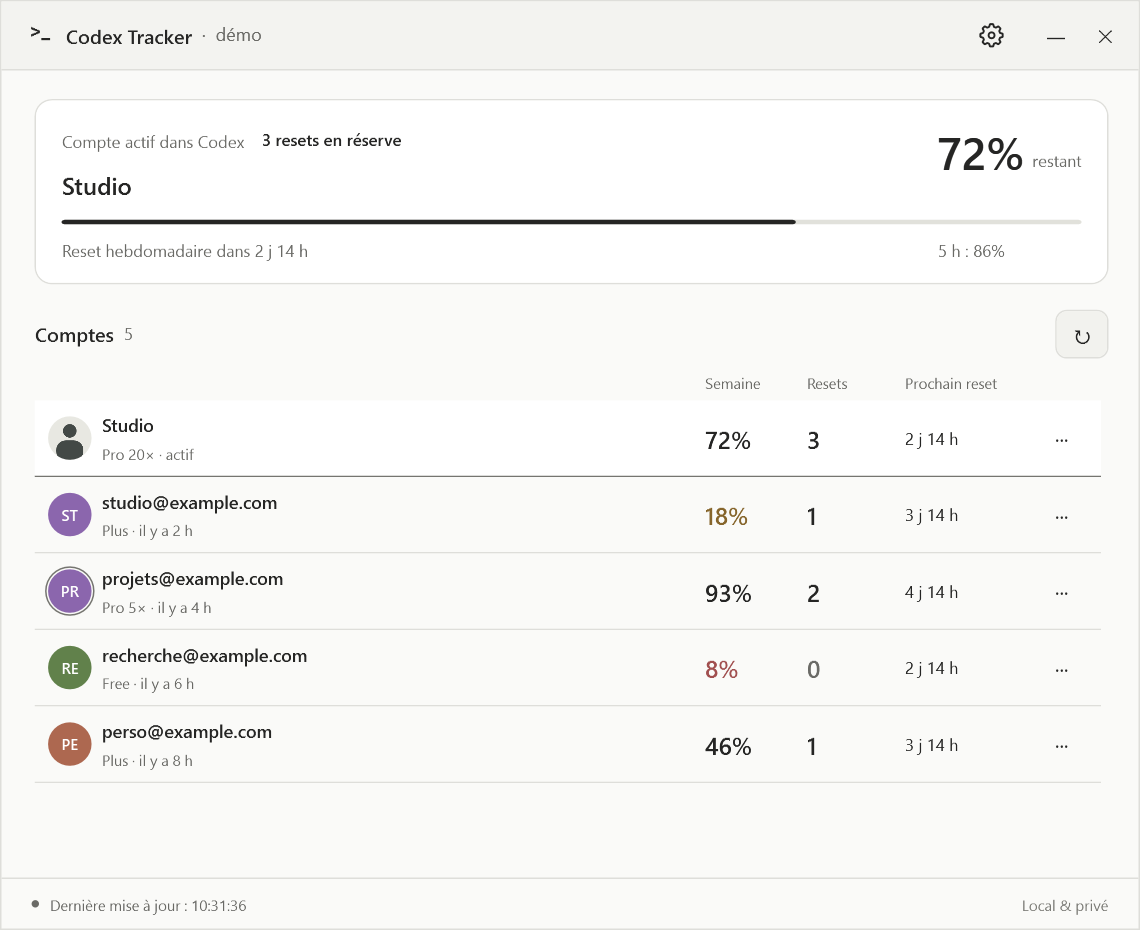
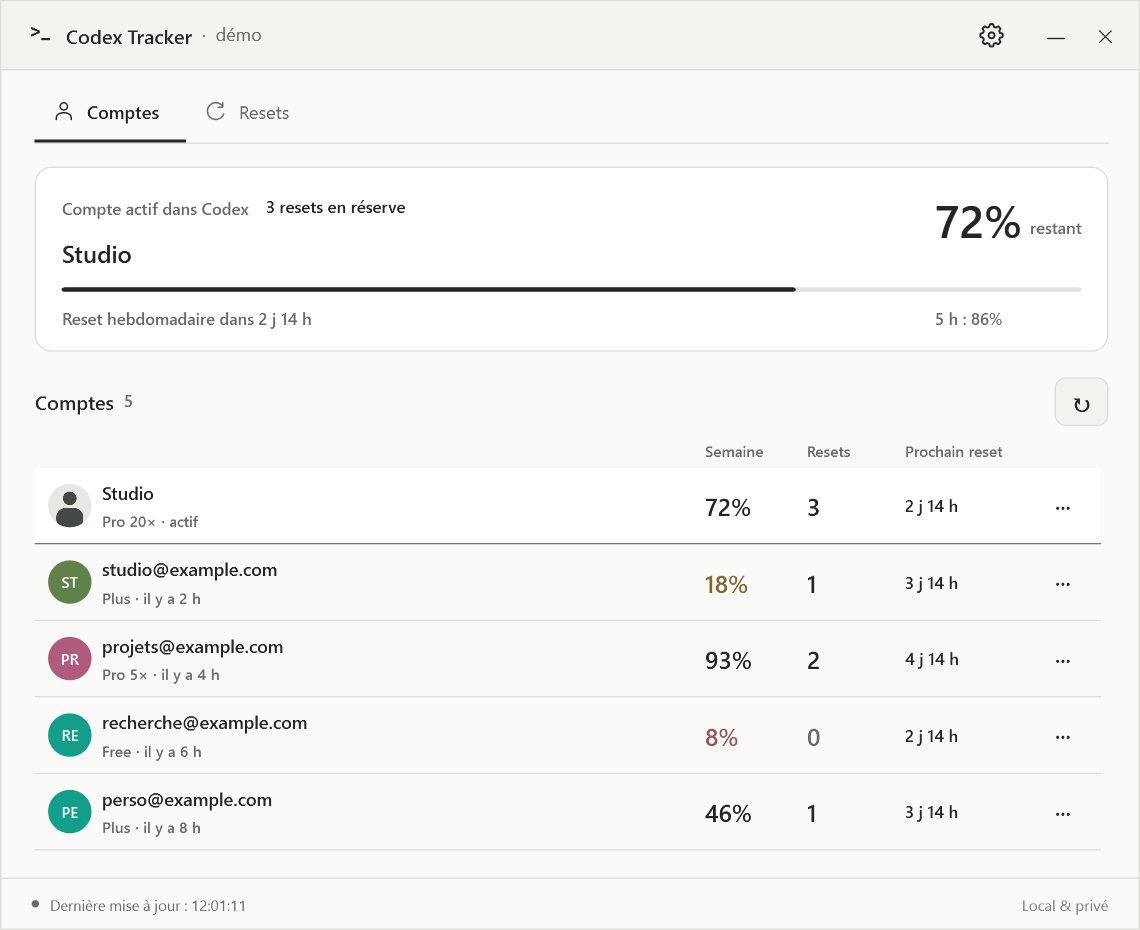
Add a dedicated reset schedule tab with account filtering

diff --git a/src/CodexTracker.App/App.xaml b/src/CodexTracker.App/App.xaml
@@ -15,9 +15,12 @@
   <Style TargetType="TextBox"><Setter Property="Foreground" Value="{DynamicResource TextBrush}"/><Setter Property="Background" Value="{DynamicResource BackgroundBrush}"/><Setter Property="BorderBrush" Value="{DynamicResource LineBrush}"/><Setter Property="CaretBrush" Value="{DynamicResource TextBrush}"/><Setter Property="Padding" Value="10"/><Setter Property="FontSize" Value="13"/><Setter Property="SelectionBrush" Value="{DynamicResource SelectedBrush}"/></Style>
   <Style TargetType="ProgressBar"><Setter Property="Height" Value="3"/><Setter Property="Background" Value="{DynamicResource TrackBrush}"/><Setter Property="BorderThickness" Value="0"/><Setter Property="Foreground" Value="{DynamicResource AccentBrush}"/><Setter Property="Template"><Setter.Value><ControlTemplate TargetType="ProgressBar"><Grid><Border Background="{TemplateBinding Background}" CornerRadius="2"/><Border x:Name="PART_Track"/><Border x:Name="PART_Indicator" Background="{TemplateBinding Foreground}" HorizontalAlignment="Left" CornerRadius="2"/></Grid></ControlTemplate></Setter.Value></Setter></Style>
   <Style TargetType="CheckBox"><Setter Property="Foreground" Value="{DynamicResource TextBrush}"/><Setter Property="FontSize" Value="12"/><Setter Property="Cursor" Value="Hand"/><Setter Property="Template"><Setter.Value><ControlTemplate TargetType="CheckBox"><Grid><Grid.ColumnDefinitions><ColumnDefinition Width="20"/><ColumnDefinition Width="*"/></Grid.ColumnDefinitions><Border x:Name="Box" Width="17" Height="17" BorderBrush="{DynamicResource LineBrush}" BorderThickness="1" Background="{DynamicResource ButtonBrush}" CornerRadius="4"><TextBlock x:Name="Mark" Text="✓" Visibility="Collapsed" FontSize="12" FontWeight="SemiBold" HorizontalAlignment="Center" VerticalAlignment="Center"/></Border><ContentPresenter Grid.Column="1" Margin="8,0,0,0" VerticalAlignment="Center"/></Grid><ControlTemplate.Triggers><Trigger Property="IsChecked" Value="True"><Setter TargetName="Mark" Property="Visibility" Value="Visible"/><Setter TargetName="Box" Property="BorderBrush" Value="{DynamicResource FocusBrush}"/></Trigger><Trigger Property="IsKeyboardFocused" Value="True"><Setter TargetName="Box" Property="BorderBrush" Value="{DynamicResource TextBrush}"/></Trigger><Trigger Property="IsEnabled" Value="False"><Setter Property="Opacity" Value="0.4"/></Trigger></ControlTemplate.Triggers></ControlTemplate></Setter.Value></Setter></Style>
+  <Geometry x:Key="AccountsIcon">M16,7 A4,4 0 1 1 8,7 A4,4 0 1 1 16,7 M4,21 L4,19 C4,12 20,12 20,19 L20,21</Geometry>
   <Geometry x:Key="SettingsGeneralIcon">M4,7 L20,7 M4,17 L20,17 M8,4 L8,10 M16,14 L16,20</Geometry>
   <Geometry x:Key="SettingsNotificationsIcon">M6,10 C6,2 18,2 18,10 L18,15 21,18 3,18 6,15 Z M9,21 L15,21</Geometry>
   <Geometry x:Key="SettingsApplicationIcon">M3,4 L21,4 21,20 3,20 Z M3,9 L21,9 M7,6.5 L7.1,6.5 M10,6.5 L10.1,6.5</Geometry>
+  <Style x:Key="MainTabsStyle" TargetType="TabControl"><Setter Property="Template"><Setter.Value><ControlTemplate TargetType="TabControl"><Grid><Grid.RowDefinitions><RowDefinition Height="Auto"/><RowDefinition Height="*"/></Grid.RowDefinitions><Border BorderBrush="{DynamicResource LineBrush}" BorderThickness="0,0,0,1"><TabPanel IsItemsHost="True" KeyboardNavigation.TabIndex="1"/></Border><ContentPresenter Grid.Row="1" x:Name="PART_SelectedContentHost" ContentSource="SelectedContent"/></Grid></ControlTemplate></Setter.Value></Setter></Style>
+  <Style x:Key="MainTabStyle" TargetType="TabItem"><Setter Property="Foreground" Value="{DynamicResource MutedBrush}"/><Setter Property="FontSize" Value="12"/><Setter Property="Template"><Setter.Value><ControlTemplate TargetType="TabItem"><Border x:Name="Tab" Background="Transparent" BorderThickness="0,0,0,2" BorderBrush="Transparent" Padding="12,10,18,11"><StackPanel Orientation="Horizontal"><Viewbox Width="15" Height="15" Margin="0,0,8,0"><Canvas Width="24" Height="24"><Path Data="{Binding Tag, RelativeSource={RelativeSource TemplatedParent}}" Stroke="{TemplateBinding Foreground}" StrokeThickness="1.6" StrokeStartLineCap="Round" StrokeEndLineCap="Round" StrokeLineJoin="Round"/></Canvas></Viewbox><ContentPresenter ContentSource="Header" VerticalAlignment="Center"/></StackPanel></Border><ControlTemplate.Triggers><Trigger Property="IsSelected" Value="True"><Setter Property="Foreground" Value="{DynamicResource TextBrush}"/><Setter Property="FontWeight" Value="SemiBold"/><Setter TargetName="Tab" Property="BorderBrush" Value="{DynamicResource TextBrush}"/></Trigger><Trigger Property="IsMouseOver" Value="True"><Setter Property="Foreground" Value="{DynamicResource TextBrush}"/></Trigger><Trigger Property="IsKeyboardFocused" Value="True"><Setter TargetName="Tab" Property="Background" Value="{DynamicResource ButtonHoverBrush}"/></Trigger></ControlTemplate.Triggers></ControlTemplate></Setter.Value></Setter></Style>
   <Style x:Key="SettingsNavigation" TargetType="Button" BasedOn="{StaticResource QuietButton}">
    <Setter Property="HorizontalContentAlignment" Value="Left"/><Setter Property="MinHeight" Value="36"/>
    <Setter Property="Template"><Setter.Value><ControlTemplate TargetType="Button">

diff --git a/src/CodexTracker.App/MainWindow.xaml b/src/CodexTracker.App/MainWindow.xaml
@@ -15,7 +15,9 @@
  </Grid></Viewbox>
 </Button><Button Content="—" ToolTip="Réduire" Click="Minimize_Click" Style="{StaticResource QuietButton}" Padding="10,5"/><Button Content="✕" ToolTip="Masquer dans la zone de notification" Click="Hide_Click" Style="{StaticResource QuietButton}" Padding="10,5"/></StackPanel>
   </Grid></Border>
-  <Grid Grid.Row="1" Margin="22,19,20,12"><Grid.RowDefinitions><RowDefinition Height="Auto"/><RowDefinition Height="Auto"/><RowDefinition Height="Auto"/><RowDefinition Height="Auto"/><RowDefinition Height="*"/></Grid.RowDefinitions>
+  <TabControl x:Name="MainTabs" Grid.Row="1" Margin="22,9,20,12" Style="{StaticResource MainTabsStyle}">
+   <TabItem Header="Comptes" Tag="{StaticResource AccountsIcon}" Style="{StaticResource MainTabStyle}">
+   <Grid Margin="0,15,0,0"><Grid.RowDefinitions><RowDefinition Height="Auto"/><RowDefinition Height="Auto"/><RowDefinition Height="Auto"/><RowDefinition Height="Auto"/><RowDefinition Height="*"/></Grid.RowDefinitions>
    <Border Background="{DynamicResource PanelBrush}" BorderBrush="{DynamicResource LineBrush}" BorderThickness="1" CornerRadius="9" Padding="13,10" Margin="0,0,0,13" Visibility="{Binding ShowOnboarding, Converter={StaticResource BoolVisibility}}"><Grid><Grid.ColumnDefinitions><ColumnDefinition Width="*"/><ColumnDefinition Width="Auto"/></Grid.ColumnDefinitions><TextBlock Text="Changez de compte dans Codex : le tracker suit automatiquement. Glissez son icône près de l’horloge pour la garder visible." TextWrapping="Wrap" Foreground="{DynamicResource MutedBrush}" FontSize="11" Margin="0,0,14,0"/><Button Grid.Column="1" Content="Compris" Click="Onboarding_Click" Padding="9,5" VerticalAlignment="Center"/></Grid></Border>
    <Border Grid.Row="1" Background="{DynamicResource PanelBrush}" BorderBrush="{DynamicResource LineBrush}" BorderThickness="1" CornerRadius="11" Padding="17,14" Visibility="{Binding HasActive, Converter={StaticResource BoolVisibility}}"><Grid><Grid.RowDefinitions><RowDefinition Height="Auto"/><RowDefinition Height="Auto"/><RowDefinition Height="Auto"/></Grid.RowDefinitions><Grid.ColumnDefinitions><ColumnDefinition Width="*"/><ColumnDefinition Width="Auto"/></Grid.ColumnDefinitions>
         <StackPanel><WrapPanel VerticalAlignment="Center"><TextBlock Text="{Binding Active.SummaryLabel}" Foreground="{DynamicResource MutedBrush}" FontSize="11" VerticalAlignment="Center" Margin="0,0,12,0"/><Border Style="{StaticResource ReserveMetric}" Margin="0,0,8,0"><Border.ToolTip><ToolTip Content="{Binding Active.ReserveHint}" ContentTemplate="{StaticResource ReserveTooltip}"/></Border.ToolTip><TextBlock Text="{Binding Active.ReserveSummary}" Foreground="{Binding Active.ReserveBrush}" FontSize="11" FontWeight="SemiBold"/></Border></WrapPanel><TextBlock Text="{Binding Active.Email}" FontSize="16" FontWeight="SemiBold" TextTrimming="CharacterEllipsis" Margin="0,5,15,0" ToolTip="{Binding Active.Email}"/></StackPanel>
@@ -43,6 +45,9 @@
     </DataTemplate></ItemsControl.ItemTemplate></ItemsControl>
    </StackPanel></ScrollViewer>
   </Grid>
+   </TabItem>
+   <TabItem x:Name="ResetsTab" Header="Resets" Tag="{StaticResource DropdownRefreshIcon}" Style="{StaticResource MainTabStyle}"/>
+  </TabControl>
   <Border Grid.Row="2" BorderBrush="{DynamicResource LineBrush}" BorderThickness="0,1,0,0" Padding="20,0"><Grid><Grid.ColumnDefinitions><ColumnDefinition Width="12"/><ColumnDefinition Width="*"/><ColumnDefinition Width="Auto"/></Grid.ColumnDefinitions><Ellipse Width="5" Height="5" Fill="{Binding StatusBrush}" HorizontalAlignment="Left" VerticalAlignment="Center"/><TextBlock Grid.Column="1" Text="{Binding StatusText}" ToolTip="{Binding StatusHint}" Foreground="{DynamicResource MutedBrush}" FontSize="10" VerticalAlignment="Center" TextTrimming="CharacterEllipsis"/><TextBlock Grid.Column="2" Text="Local &amp; privé" Foreground="{DynamicResource SubtleBrush}" FontSize="10" VerticalAlignment="Center" Margin="15,0,0,0"/></Grid></Border>
  </Grid></Border>
 </Window>

diff --git a/src/CodexTracker.App/ResetsView.cs b/src/CodexTracker.App/ResetsView.cs
@@ -1,0 +1,118 @@
+namespace CodexTracker.App;
+
+internal sealed record ResetAccountChoice(Guid? Id, string Label)
+{
+    public override string ToString() => Label;
+}
+
+internal sealed class ResetsView : UserControl
+{
+    private readonly PreferencesStore _preferences;
+    private readonly ComboBox _accounts;
+    private readonly StackPanel _timeline = new();
+    private readonly TextBlock _summary = Ui.Text("", 12, "MutedBrush");
+    private readonly TextBlock _reserves = Ui.Text("", 11, "MutedBrush");
+    private readonly Button _refresh;
+    private readonly List<(ResetScheduleEntry Entry, TextBlock Countdown, TextBlock Freshness)> _rows = [];
+    private TrackerState _state = new([], null);
+    private DateTimeOffset? _nextBoundary;
+    private bool _syncing;
+
+    internal ResetsView(PreferencesStore preferences, Action<Guid?> calendar, Action refresh)
+    {
+        _preferences = preferences;
+        var root = new Grid { Margin = new Thickness(0, 17, 0, 0) };
+        root.RowDefinitions.Add(new RowDefinition { Height = GridLength.Auto });
+        root.RowDefinitions.Add(new RowDefinition { Height = GridLength.Auto });
+        root.RowDefinitions.Add(new RowDefinition());
+        var heading = new Grid(); heading.ColumnDefinitions.Add(new ColumnDefinition()); heading.ColumnDefinitions.Add(new ColumnDefinition { Width = GridLength.Auto });
+        var title = Ui.Text("Les échéances de vos comptes", 20); title.FontWeight = FontWeights.SemiBold; heading.Children.Add(title);
+        var export = new Button { Content = "Google Agenda ↗", Style = (Style)FindResource("QuietButton"), VerticalAlignment = VerticalAlignment.Top, Margin = new Thickness(12, 0, 0, 0), ToolTip = "Ajouter une échéance ou importer les dates dans un agenda" };
+        Grid.SetColumn(export, 1); heading.Children.Add(export);
+        var introduction = new StackPanel(); introduction.Children.Add(heading); _summary.Margin = new Thickness(0, 7, 0, 5); introduction.Children.Add(_summary); introduction.Children.Add(_reserves); root.Children.Add(introduction);
+
+        var filters = new Grid { Margin = new Thickness(0, 18, 0, 12) }; filters.ColumnDefinitions.Add(new ColumnDefinition { Width = new GridLength(230) }); filters.ColumnDefinitions.Add(new ColumnDefinition()); filters.ColumnDefinitions.Add(new ColumnDefinition { Width = GridLength.Auto });
+        _accounts = new ComboBox { DisplayMemberPath = "Label", SelectedValuePath = "Id", Tag = FindResource("AccountsIcon") };
+        export.Click += (_, _) => calendar((_accounts.SelectedItem as ResetAccountChoice)?.Id);
+        System.Windows.Automation.AutomationProperties.SetName(_accounts, "Filtrer les resets par compte");
+        _accounts.SelectionChanged += (_, _) => { if (!_syncing) Render(); }; filters.Children.Add(_accounts);
+        _refresh = new Button { Content = "Actualiser", Style = (Style)FindResource("QuietButton"), ToolTip = "Actualise le compte actif dans Codex ; les autres conservent leur dernier relevé" };
+        _refresh.Click += (_, _) => refresh(); Grid.SetColumn(_refresh, 2); filters.Children.Add(_refresh); Grid.SetRow(filters, 1); root.Children.Add(filters);
+        var scroll = new ScrollViewer { Content = _timeline, VerticalScrollBarVisibility = ScrollBarVisibility.Auto, HorizontalScrollBarVisibility = ScrollBarVisibility.Disabled };
+        Grid.SetRow(scroll, 2); root.Children.Add(scroll); Content = root;
+    }
+    internal void Update(TrackerState state)
+    {
+        _state = state; _refresh.IsEnabled = !state.IsBusy;
+        var selected = (_accounts.SelectedItem as ResetAccountChoice)?.Id;
+        var choices = new[] { new ResetAccountChoice(null, "Tous les comptes") }
+            .Concat(state.Accounts.Select(a => new ResetAccountChoice(a.Profile.Id, AccountName(a)))).ToArray();
+        if (_accounts.ItemsSource is not ResetAccountChoice[] previous || !previous.SequenceEqual(choices))
+        {
+            _syncing = true; _accounts.ItemsSource = choices;
+            _accounts.SelectedItem = choices.FirstOrDefault(c => c.Id == selected) ?? choices[0]; _syncing = false;
+        }
+        Render();
+    }
+    private string AccountName(AccountState account) => PrivacyText.Account(account.Profile, _state, _preferences.Current);
+    private void Render()
+    {
+        var accountId = (_accounts.SelectedItem as ResetAccountChoice)?.Id;
+        var accounts = _state.Accounts.Where(a => accountId is null || a.Profile.Id == accountId).ToArray();
+        var entries = ResetSchedule.Entries(_state, accountId);
+        var now = DateTimeOffset.UtcNow;
+        var future = entries.Where(e => e.At > now).ToArray();
+        var reached = entries.Where(e => e.At <= now).OrderByDescending(e => e.At).ToArray();
+        var unknown = entries.Where(e => e.At is null).ToArray();
+        _summary.Text = accounts.Length == 0 ? "Les dates apparaîtront dès qu’un compte sera détecté dans Codex." : $"{future.Length} à venir" + (unknown.Length > 0 ? " · certaines dates ne sont pas communiquées" : "");
+        var counts = accounts.Select(a => a.Snapshot?.AvailableResetCredits).ToArray();
+        _reserves.Text = counts.Length == 0 ? "" : counts.All(n => n is null) ? "Réserves : non communiquées" : $"Réserves : {counts.Sum(n => (long)(n ?? 0))} resets au dernier relevé" + (counts.Any(n => n is null) ? $" · {counts.Count(n => n is null)} comptes sans compteur" : "");
+        _reserves.ToolTip = "Les comptes inactifs ne sont pas actualisés en arrière-plan. Le compteur serveur fait foi ; les dates détaillées ne permettent pas de déduire le nombre de resets disponibles.";
+        _rows.Clear(); _timeline.Children.Clear();
+        AddGroup("À venir", future);
+        AddGroup("Dates atteintes · à vérifier", reached);
+        AddGroup("Dates non communiquées", unknown, showCount: false);
+        if (entries.Count == 0) { var empty = Ui.Text("Aucune échéance à afficher pour le moment.", 13, "MutedBrush"); empty.Margin = new Thickness(0, 24, 0, 0); _timeline.Children.Add(empty); }
+        _nextBoundary = future.FirstOrDefault()?.At;
+        UpdateTimes(now);
+    }
+    private void AddGroup(string title, IReadOnlyList<ResetScheduleEntry> entries, bool showCount = true)
+    {
+        if (entries.Count == 0) return;
+        var heading = Ui.Text(showCount ? $"{title}  ·  {entries.Count}" : title, 12, "MutedBrush"); heading.FontWeight = FontWeights.SemiBold; heading.Margin = new Thickness(0, 13, 0, 7); _timeline.Children.Add(heading);
+        foreach (var entry in entries)
+        {
+            var row = new Grid(); row.ColumnDefinitions.Add(new ColumnDefinition()); row.ColumnDefinitions.Add(new ColumnDefinition { Width = new GridLength(190) });
+            var identity = new StackPanel { Margin = new Thickness(0, 0, 18, 0) };
+            var account = Ui.Text(AccountName(entry.Account), 12); account.FontWeight = FontWeights.SemiBold; identity.Children.Add(account);
+            var kind = entry.Kind switch { ResetKind.Weekly => "Reset hebdomadaire", ResetKind.Short => "Reset de la fenêtre 5 heures", _ => "Expiration d’un reset en réserve" };
+            if (entry.IsUndetailedReserve) kind = entry.Account.Snapshot?.ResetCredits is { Count: > 0 } ? "Autres réserves · dates non communiquées" : "Expiration des resets en réserve";
+            var detail = Ui.Text(kind, 11, "MutedBrush"); detail.Margin = new Thickness(0, 4, 0, 0); identity.Children.Add(detail);
+            var freshness = Ui.Text("", 11, "MutedBrush"); freshness.Margin = new Thickness(0, 4, 0, 0); identity.Children.Add(freshness);
+            if (entry.GrantedAt is { } granted) { var receipt = Ui.Text($"Reçu le {Display.Exact(granted)}", 11, "MutedBrush"); receipt.Margin = new Thickness(0, 4, 0, 0); receipt.ToolTip = Display.Zone(granted); identity.Children.Add(receipt); }
+            row.Children.Add(identity);
+            var timing = new StackPanel { HorizontalAlignment = HorizontalAlignment.Right };
+            var exact = Ui.Text(entry.At is null ? "Date indisponible" : Display.Exact(entry.At), 12); exact.FontWeight = FontWeights.SemiBold; timing.Children.Add(exact);
+            var countdown = Ui.Text("", 11, "MutedBrush"); countdown.Margin = new Thickness(0, 4, 0, 0); timing.Children.Add(countdown);
+            if (entry.At is { } at) { var zone = Ui.Text($"UTC{at.ToLocalTime():zzz}", 11, "MutedBrush"); zone.Margin = new Thickness(0, 4, 0, 0); zone.ToolTip = Display.Zone(at); timing.Children.Add(zone); }
+            Grid.SetColumn(timing, 1); row.Children.Add(timing);
+            var border = new Border { Child = row, Background = Brushes.Transparent, BorderThickness = new Thickness(0, 0, 0, 1), Padding = new Thickness(0, 12, 7, 13) }; border.SetResourceReference(Border.BorderBrushProperty, "LineBrush");
+            border.ToolTip = entry.Account.Snapshot is { } snapshot ? $"Dernier relevé : {Display.Exact(snapshot.FetchedAt)}\n{Display.Zone(snapshot.FetchedAt)}\n{Display.ReserveSummary(snapshot)}\n{entry.CreditTitle}\n{entry.Account.Error}" : "Aucun relevé disponible pour ce compte.";
+            _timeline.Children.Add(border); _rows.Add((entry, countdown, freshness));
+        }
+    }
+    internal void Tick()
+    {
+        var now = DateTimeOffset.UtcNow;
+        if (_nextBoundary <= now) Render(); else UpdateTimes(now);
+    }
+    private void UpdateTimes(DateTimeOffset now)
+    {
+        foreach (var (entry, countdown, freshness) in _rows)
+        {
+            countdown.Text = entry.At is null ? "Non communiquée par Codex" : entry.At > now ? Display.Countdown(entry.At) : entry.Kind == ResetKind.Reserve ? "Expiration passée" : "Reset à confirmer dans Codex";
+            countdown.SetResourceReference(TextBlock.ForegroundProperty, entry.At <= now || (entry.Kind == ResetKind.Reserve && entry.At - now <= TimeSpan.FromDays(1)) ? "WarningBrush" : "MutedBrush");
+            freshness.Text = entry.Account.Error is not null ? "Dernier essai en échec · relevé conservé" : entry.Account.Snapshot is { } snapshot ? $"{(entry.Account.IsActiveInCodex ? "Actif · " : "")}relevé {Display.Age(snapshot.FetchedAt)}" : "Aucun relevé";
+        }
+    }
+}

diff --git a/tests/CodexTracker.Tests/ResetScheduleTests.cs b/tests/CodexTracker.Tests/ResetScheduleTests.cs
@@ -1,0 +1,84 @@
+using CodexTracker.Core;
+using Xunit;
+
+namespace CodexTracker.Tests;
+
+public sealed class ResetScheduleTests
+{
+    private static readonly DateTimeOffset Now = DateTimeOffset.Parse("2026-10-25T00:30:00Z");
+    private static readonly AccountProfile Profile = new(Guid.NewGuid(), "studio@example.test");
+    private static AccountSnapshot Snapshot => new(Profile.Email, "plus",
+        [new("codex", null, [new(20, 300, Now.AddHours(1)), new(30, 10080, Now.AddDays(2))])], 2,
+        [new("old", "Ancien", Now.AddDays(-30), Now.AddDays(-1)), new("next", "Prochain", Now.AddDays(-3), Now.AddDays(1))], Now);
+    private static TrackerState State(AccountSnapshot? snapshot) => new([new(Profile, snapshot)], Profile.Id);
+
+    [Fact]
+    public void ScheduleOrdersRealInstantsAcrossKindsAndPreservesGrantDates()
+    {
+        var rows = ResetSchedule.Entries(State(Snapshot));
+        Assert.Equal(new[] { ResetKind.Reserve, ResetKind.Short, ResetKind.Reserve, ResetKind.Weekly }, rows.Select(r => r.Kind));
+        Assert.Equal(Now.AddDays(-30), rows[0].GrantedAt);
+        Assert.Equal("Ancien", rows[0].CreditTitle);
+        Assert.Equal(Now.AddDays(-1), rows[0].At);
+        Assert.Equal(Now.AddDays(2), rows[3].At);
+        Assert.All(rows, row => Assert.Equal(Snapshot.FetchedAt, row.Account.Snapshot!.FetchedAt));
+    }
+
+    [Fact]
+    public void MissingSnapshotRemainsUnknownForAllThreeKinds()
+    {
+        var rows = ResetSchedule.Entries(State(null));
+        Assert.Equal(3, rows.Count);
+        Assert.All(rows, row => Assert.Null(row.At));
+        Assert.Null(rows[0].Account.Snapshot);
+    }
+
+    [Theory]
+    [InlineData(0, 0)]
+    [InlineData(3, 1)]
+    [InlineData(null, 1)]
+    public void UndetailedReservesNeverInventIndividualExpirationDates(int? count, int placeholders)
+    {
+        var rows = ResetSchedule.Entries(State(Snapshot with { AvailableResetCredits = count, ResetCredits = null }));
+        var reserves = rows.Where(r => r.Kind == ResetKind.Reserve).ToArray();
+        Assert.Equal(placeholders, reserves.Length);
+        Assert.All(reserves, row => Assert.Null(row.At));
+    }
+
+    [Fact]
+    public void MissingWeeklyWindowNeverUsesAnotherDuration()
+    {
+        var rows = ResetSchedule.Entries(State(Snapshot with { Buckets = [new("codex", null, [new(20, 300, Now)])] }));
+        Assert.Null(Assert.Single(rows, r => r.Kind == ResetKind.Weekly).At);
+        Assert.Equal(Now, Assert.Single(rows, r => r.Kind == ResetKind.Short).At);
+    }
+
+    [Fact]
+    public void AccountFilterIsIsolatedAndDoesNotFallBackToAnotherAccount()
+    {
+        var other = new AccountProfile(Guid.NewGuid(), "other@example.test");
+        var state = new TrackerState([new(Profile, Snapshot), new(other, Snapshot with { Email = other.Email })], Profile.Id);
+        var rows = ResetSchedule.Entries(state, other.Id);
+        Assert.Equal(4, rows.Count);
+        Assert.All(rows, row => Assert.Equal(other.Id, row.Account.Profile.Id));
+        Assert.Empty(ResetSchedule.Entries(state, Guid.NewGuid()));
+        Assert.Empty(ResetSchedule.Entries(new([], null)));
+    }
+
+    [Fact]
+    public void PartialCreditDetailsKeepKnownDatesAndFlagMissingDates()
+    {
+        var rows = ResetSchedule.Entries(State(Snapshot with { AvailableResetCredits = 3 }));
+        var placeholder = Assert.Single(rows, r => r.IsUndetailedReserve);
+        Assert.Null(placeholder.At);
+        Assert.Equal(2, rows.Count(r => r.Kind == ResetKind.Reserve && r.At is not null));
+    }
+
+    [Fact]
+    public void HistoricalCreditDatesDoNotOverrideZeroAvailability()
+    {
+        var rows = ResetSchedule.Entries(State(Snapshot with { AvailableResetCredits = 0 }));
+        Assert.Equal(2, rows.Count(r => r.Kind == ResetKind.Reserve));
+        Assert.All(rows, row => Assert.Equal(0, row.Account.Snapshot!.AvailableResetCredits));
+    }
+}

diff --git a/tests/CodexTracker.UiSmoke/FeatureChecks.cs b/tests/CodexTracker.UiSmoke/FeatureChecks.cs
@@ -38,6 +38,38 @@ internal static class FeatureChecks
         var theme = window.Theme;
         try
         {
+            var mainTabs = (TabControl)window.FindName("MainTabs");
+            var resetsTab = (TabItem)window.FindName("ResetsTab");
+            var resets = (ResetsView)resetsTab.Content;
+            Check(mainTabs.SelectedIndex == 0, "Dashboard opens on Accounts by default");
+            mainTabs.SelectedItem = resetsTab; await Task.Delay(100);
+            Check(resets.IsVisible && Tree(resets).OfType<TextBlock>().Any(t => t.Text.Contains("À venir")), "Resets tab renders a chronological schedule");
+            var resetFilter = Field<ComboBox>(resets, "_accounts");
+            Check(Tree(resetFilter).OfType<TextBlock>().Any(t => t.Text == "Tous les comptes")
+                && !Tree(resetFilter).OfType<TextBlock>().Any(t => t.Text.Contains("ResetAccountChoice")), "Resets dropdown displays its label instead of its data type");
+            resetFilter.SelectedIndex = 1; window.UpdateLayout();
+            Check(Tree(resets).OfType<TextBlock>().Any(t => t.Text == service.State.Accounts[0].Profile.Email)
+                && !Tree(resets).OfType<TextBlock>().Any(t => t.Text == service.State.Accounts[1].Profile.Email), "Resets account filter isolates schedule rows");
+            resets.Update(service.State);
+            Check(resetFilter.SelectedIndex == 1, "Refresh preserves the resets account filter");
+            var oldSnapshot = service.State.Accounts[0].Snapshot! with
+            {
+                Buckets = [new("codex", null, [new(80, 300, DateTimeOffset.UtcNow.AddSeconds(-1))])],
+                AvailableResetCredits = null, ResetCredits = null
+            };
+            resets.Update(new([service.State.Accounts[0] with { Snapshot = oldSnapshot }], id));
+            window.UpdateLayout(); resets.Tick();
+            var resetLabels = Tree(resets).OfType<TextBlock>().Select(t => t.Text).ToArray();
+            Check(resetLabels.Contains("Reset à confirmer dans Codex") && resetLabels.Contains("Date indisponible")
+                && resetLabels.Contains("Réserves : non communiquées"), "Past reset dates and missing reserves never imply restored quotas or zero credits");
+            Guid? exportedAccount = null;
+            var scoped = new ResetsView(preferences, selected => exportedAccount = selected, () => { });
+            scoped.Update(service.State); Field<ComboBox>(scoped, "_accounts").SelectedIndex = 1;
+            Tree(scoped.Content as DependencyObject ?? scoped).OfType<Button>().Single(b => b.Content?.ToString() == "Google Agenda ↗").RaiseEvent(new RoutedEventArgs(ButtonBase.ClickEvent));
+            Check(exportedAccount == id, "Calendar action receives the account selected in Resets");
+            resets.Update(service.State); resetFilter.SelectedIndex = 0;
+            mainTabs.SelectedIndex = 0; await Task.Delay(100);
+            Check(!resets.IsVisible && Tree(window).OfType<Button>().Any(b => b.ToolTip?.ToString() == "Changer le nom ou l’avatar"), "Returning to Accounts preserves the dashboard");
             Check(AccountAvatar.Initials("Alexandre Almeida") == "AA" && AccountAvatar.Initials("alexandre.almeida@example.test") == "AA" && AccountAvatar.Initials("Studio") == "ST" && AccountAvatar.Initials("") == "?", "Default avatars derive initials from names and email addresses");
             Check(AccountAvatar.Background(id).ToString() == AccountAvatar.Background(Guid.Parse(id.ToString())).ToString(), "Avatar color remains stable for an account");
             var source = Path.Combine(directory, "source.png");

diff --git a/src/CodexTracker.App/MainWindow.xaml.cs b/src/CodexTracker.App/MainWindow.xaml.cs
@@ -15,6 +15,7 @@ public partial class MainWindow : Window
     private readonly DashboardViewModel _model;
     private readonly PreferencesStore _preferences;
     private readonly UpdateService _updates;
+    private readonly ResetsView _resets;
     private readonly DispatcherTimer _clockTimer = new() { Interval = TimeSpan.FromSeconds(1) };
     private readonly CancellationTokenSource _lifetime = new();
     private bool _canClose, _refreshing;
@@ -27,13 +28,14 @@ public partial class MainWindow : Window
         Theme = new ThemeManager(preferences);
         _model = new DashboardViewModel(demo, preferences);
         InitializeComponent();
+        _resets = new ResetsView(_preferences, id => new CalendarWindow(this, _service, _preferences, Theme, id).ShowDialog(), () => _ = RefreshAsync()); ResetsTab.Content = _resets;
         if (demo) Title = "Codex Tracker (démo)";
         DataContext = _model;
         UpdateModel();
         _service.Changed += Service_Changed;
         _preferences.Changed += Preferences_Changed;
         Theme.Changed += Theme_Changed;
-        _clockTimer.Tick += (_, _) => _model.Tick();
+        _clockTimer.Tick += (_, _) => { _model.Tick(); _resets.Tick(); };
         Closing += OnClosing;
         SourceInitialized += (_, _) => { Ui.ConstrainInitialSize(this); ApplyChrome(); };
         KeyDown += (_, e) => { if (e.Key == Key.Escape) Hide(); if (e.Key == Key.F5) _ = RefreshAsync(); };
@@ -46,7 +48,7 @@ public partial class MainWindow : Window
     private void UpdateModel()
     {
         if (_canClose) return;
-        _model.Update(_service.State);
+        _model.Update(_service.State); _resets.Update(_service.State);
     }
     private void Service_Changed(object? sender, EventArgs e) => Dispatcher.InvokeAsync(UpdateModel);
     private void Preferences_Changed(object? sender, EventArgs e) => Dispatcher.InvokeAsync(UpdateModel);

diff --git a/src/CodexTracker.Core/ResetSchedule.cs b/src/CodexTracker.Core/ResetSchedule.cs
@@ -1,0 +1,28 @@
+namespace CodexTracker.Core;
+
+public enum ResetKind { Weekly, Short, Reserve }
+
+public sealed record ResetScheduleEntry(AccountState Account, ResetKind Kind, DateTimeOffset? At,
+    DateTimeOffset? GrantedAt = null, string? CreditTitle = null, bool IsUndetailedReserve = false);
+
+public static class ResetSchedule
+{
+    public static IReadOnlyList<ResetScheduleEntry> Entries(TrackerState state, Guid? accountId = null)
+    {
+        var entries = new List<ResetScheduleEntry>();
+        foreach (var account in state.Accounts.Where(a => accountId is null || a.Profile.Id == accountId))
+        {
+            var snapshot = account.Snapshot;
+            entries.Add(new(account, ResetKind.Weekly, snapshot?.Weekly?.ResetsAt));
+            entries.Add(new(account, ResetKind.Short, snapshot?.Short?.ResetsAt));
+            var credits = snapshot?.ResetCredits;
+            if (credits is { Count: > 0 })
+                entries.AddRange(credits.Select(c => new ResetScheduleEntry(account, ResetKind.Reserve, c.ExpiresAt, c.GrantedAt, c.Title)));
+            if ((credits is not { Count: > 0 } && snapshot?.AvailableResetCredits is not 0)
+                || snapshot?.AvailableResetCredits > credits?.Count)
+                entries.Add(new(account, ResetKind.Reserve, null, IsUndetailedReserve: true));
+        }
+        return entries.OrderBy(e => e.At ?? DateTimeOffset.MaxValue)
+            .ThenBy(e => e.Account.Profile.Email, StringComparer.OrdinalIgnoreCase).ThenBy(e => e.Kind).ToArray();
+    }
+}

diff --git a/src/CodexTracker.Codex/AppServerClient.cs b/src/CodexTracker.Codex/AppServerClient.cs
@@ -54,7 +54,7 @@ internal sealed class AppServerClient : IAsyncDisposable
         {
             await client.RequestAsync("initialize", new
             {
-                clientInfo = new { name = "codex_tracker", title = "Codex Tracker", version = "0.5.4" },
+                clientInfo = new { name = "codex_tracker", title = "Codex Tracker", version = "0.5.5" },
                 capabilities = new { experimentalApi = true }
             }, cancellationToken);
             await client.SendAsync(new { method = "initialized", @params = new { } }, cancellationToken);

diff --git a/README.md b/README.md
@@ -47,6 +47,16 @@ Les réglages sont répartis en quatre rubriques : **Général**, **Notification
 
 ![Réglages avec données fictives](docs/settings.png)
 
+## Onglet Resets
+
+L’onglet **Resets**, à côté de **Comptes**, rassemble les échéances de tous les comptes dans une liste chronologique : fenêtres de 5 heures et hebdomadaire, expiration de chaque crédit de reset connu et date de réception. Le filtre permet de ne conserver qu’un compte. Chaque ligne affiche la date exacte, le décalage UTC, un compte à rebours et l’ancienneté du relevé ; le survol précise le fuseau et les informations reçues.
+
+Les dates sont séparées en **À venir**, **Dates atteintes · à vérifier** et **Dates non communiquées**. Une date passée ne confirme pas un nouveau quota. Si le serveur fournit moins de dates de crédits que le compteur de réserves, une ligne signale les dates manquantes. Le total des réserves reste celui des derniers relevés, sans déduire la disponibilité depuis les dates.
+
+**Google Agenda ↗** ouvre les options d’import pour le compte filtré, ou pour tous les comptes. **Actualiser** conserve le filtre et actualise uniquement le compte actif dans Codex.
+
+![Onglet Resets avec un compte fictif](docs/resets.png)
+
 ## Personnalisation et calendrier
 
 Cliquez directement sur **l’avatar d’un compte** (ou ouvrez **··· → Nom et avatar…**) pour choisir un nom court et une image PNG ou JPEG locale (8 Mo et 40 mégapixels maximum). L’image est recadrée au centre et copiée dans les données locales du tracker ; déplacer l’original ne change pas l’avatar. Les photos importées conservent leur transparence sur un fond neutre adapté au thème, sans initiales derrière l’image. Sans photo, un cercle coloré affiche les initiales du nom ou de l’adresse, avec une couleur stable par compte. Cliquez aussi sur cet avatar dans la fenêtre de personnalisation pour choisir une image. **Utiliser les initiales** retire la photo, et un nom vide rétablit l’adresse. Fermer la fenêtre abandonne les modifications non enregistrées. Les noms et les photos restent visibles. Le bouton de confidentialité et la sélection manuelle du compte de l’icône ont été retirés ; les anciens réglages correspondants sont ignorés.

diff --git a/docs/VALIDATION.md b/docs/VALIDATION.md
@@ -19,6 +19,13 @@ Contrôles effectués sur Windows 11 x64, les 20 et 21 septembre 2026. Les tests
 | Limitation GitHub réelle | Réponse anonyme limitée : échéance serveur conservée ; deuxième essai et recréation du service ne produisent aucune nouvelle requête pendant ce délai |
 | Comportements Windows | 17 tests de placement et 13 contrôles sur de vrais HWND, décrits ci-dessous |
 
+## Ajouts de la version 0.5.5
+
+- 224 tests métier et 45 contrôles WPF réussis. Les ajouts couvrent le tri des échéances, les dates absentes ou partielles, l’isolation par compte, les réserves inconnues ou nulles et les dates historiques conservées.
+- Navigation réelle Comptes → Resets → Comptes, libellé du filtre, conservation après actualisation, export du compte filtré et affichage des échéances atteintes sans annoncer un quota rétabli.
+- Captures WPF avec comptes fictifs inspectées en clair/sombre, aux dimensions 760 × 620 et 630 × 500, rendues à 150 %. Les listes défilent sans rogner les dates.
+- Un contrôle préexistant du calendrier a échoué ponctuellement en recherchant le bouton d’un panneau venant de s’ouvrir ; une seconde exécution inchangée de ce contrôle a réussi. Aucun événement Google réel n’a été créé.
+
 ## Ajouts de la version 0.5.4
 
 - 215 tests métier et 37 contrôles WPF réussis. Les liens Google conservent les instants UTC lors du changement d’heure et encodent les caractères spéciaux sans ajouter de paramètres.
